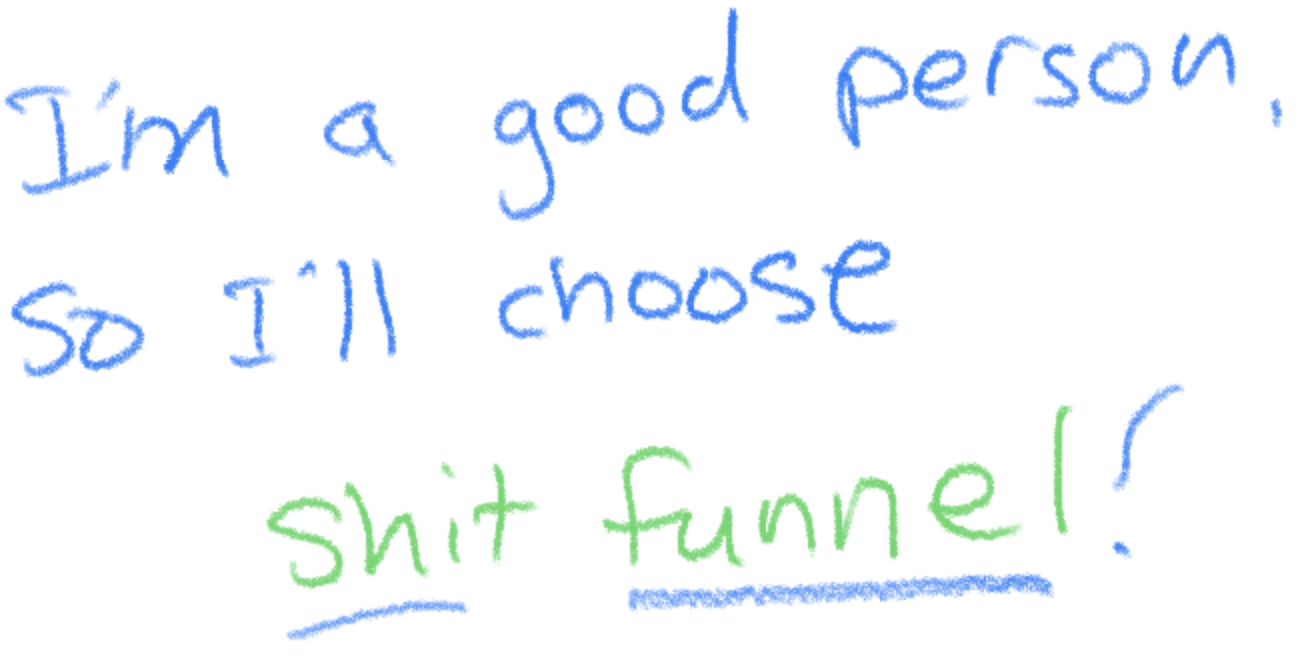
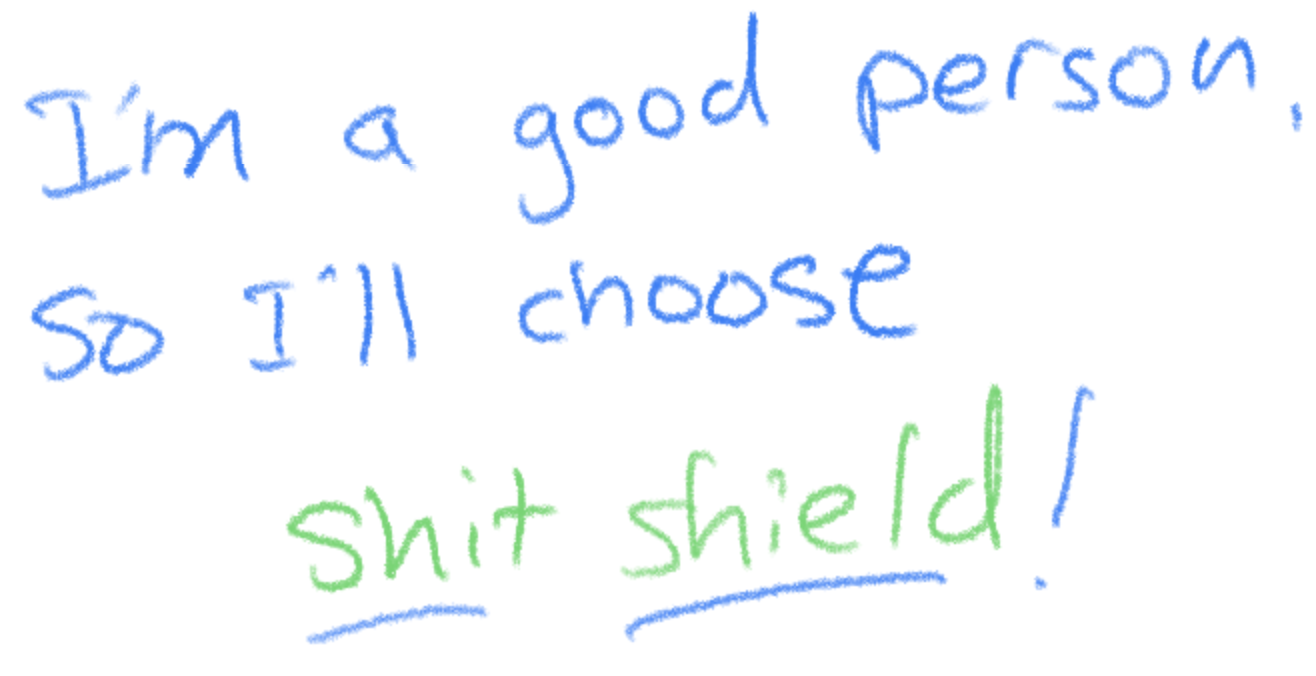
Fix good person image. Wording change for shit shield

diff --git a/content/posts/2022-07-19--shit-shield/index.md b/content/posts/2022-07-19--shit-shield/index.md
@@ -29,8 +29,7 @@ Also, most people find their first exposure to management politics to be painful
 
 There is some value in shielding your team. In some organizations, it may even be necessary. Dysfunction is common! You’ll find it everywhere you go. 
 
-Hear my argument on why protecting your team is not a useful way to position yourself. 
-
+So why isn't positioning yourself as a shit shield a good idea?
 
 ## Protection sets up an adversarial relationship
 
